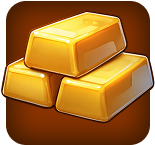
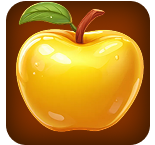
info sections

diff --git a/src/api/configApi.ts b/src/api/configApi.ts
@@ -18,127 +18,127 @@ export class ConfigAPI {
                     {
                         type: 1,
                         patterns: [
-                            { min: 5, max: 6, win: .5 },
-                            { min: 7, max: 8, win: 1 },
-                            { min: 9, max: 11, win: 2 },
-                            { min: 12, max: 14, win: 3.5 },
-                            { min: 15, max: 19, win: 5 },
-                            { min: 20, max: 25, win: 15 },
+                            { min: 5, max: 6, multiplier: .5 },
+                            { min: 7, max: 8, multiplier: 1 },
+                            { min: 9, max: 11, multiplier: 2 },
+                            { min: 12, max: 14, multiplier: 3.5 },
+                            { min: 15, max: 19, multiplier: 5 },
+                            { min: 20, max: 25, multiplier: 15 },
                         ],
                     },
                     {
                         type: 2,
                         patterns: [
-                            { min: 5, max: 6, win: .5 },
-                            { min: 7, max: 8, win: 1 },
-                            { min: 9, max: 11, win: 2 },
-                            { min: 12, max: 14, win: 3.5 },
-                            { min: 15, max: 19, win: 5 },
-                            { min: 20, max: 25, win: 15 },
+                            { min: 5, max: 6, multiplier: .5 },
+                            { min: 7, max: 8, multiplier: 1 },
+                            { min: 9, max: 11, multiplier: 2 },
+                            { min: 12, max: 14, multiplier: 3.5 },
+                            { min: 15, max: 19, multiplier: 5 },
+                            { min: 20, max: 25, multiplier: 15 },
                         ],
                     },
                     {
                         type: 3,
                         patterns: [
-                            { min: 5, max: 6, win: 1 },
-                            { min: 7, max: 8, win: 1.5 },
-                            { min: 9, max: 11, win: 3 },
-                            { min: 12, max: 14, win: 4.5 },
-                            { min: 15, max: 19, win: 6 },
-                            { min: 20, max: 25, win: 18 },
+                            { min: 5, max: 6, multiplier: 1 },
+                            { min: 7, max: 8, multiplier: 1.5 },
+                            { min: 9, max: 11, multiplier: 3 },
+                            { min: 12, max: 14, multiplier: 4.5 },
+                            { min: 15, max: 19, multiplier: 6 },
+                            { min: 20, max: 25, multiplier: 18 },
                         ],
                     },
                     {
                         type: 4,
                         patterns: [
-                            { min: 5, max: 6, win: 1 },
-                            { min: 7, max: 8, win: 1.5 },
-                            { min: 9, max: 11, win: 3 },
-                            { min: 12, max: 14, win: 4.5 },
-                            { min: 15, max: 19, win: 6 },
-                            { min: 20, max: 25, win: 18 },
+                            { min: 5, max: 6, multiplier: 1 },
+                            { min: 7, max: 8, multiplier: 1.5 },
+                            { min: 9, max: 11, multiplier: 3 },
+                            { min: 12, max: 14, multiplier: 4.5 },
+                            { min: 15, max: 19, multiplier: 6 },
+                            { min: 20, max: 25, multiplier: 18 },
                         ],
                     },
                     {
                         type: 5,
                         patterns: [
-                            { min: 5, max: 6, win: 1.5 },
-                            { min: 7, max: 8, win: 2 },
-                            { min: 9, max: 11, win: 4 },
-                            { min: 12, max: 14, win: 6 },
-                            { min: 15, max: 19, win: 9 },
-                            { min: 20, max: 25, win: 25 },
+                            { min: 5, max: 6, multiplier: 1.5 },
+                            { min: 7, max: 8, multiplier: 2 },
+                            { min: 9, max: 11, multiplier: 4 },
+                            { min: 12, max: 14, multiplier: 6 },
+                            { min: 15, max: 19, multiplier: 9 },
+                            { min: 20, max: 25, multiplier: 25 },
                         ],
                     },
                     {
                         type: 6,
                         patterns: [
-                            { min: 5, max: 6, win: 2 },
-                            { min: 7, max: 8, win: 2.5 },
-                            { min: 9, max: 11, win: 5 },
-                            { min: 12, max: 14, win: 8 },
-                            { min: 15, max: 19, win: 12 },
-                            { min: 20, max: 25, win: 30 },
+                            { min: 5, max: 6, multiplier: 2 },
+                            { min: 7, max: 8, multiplier: 2.5 },
+                            { min: 9, max: 11, multiplier: 5 },
+                            { min: 12, max: 14, multiplier: 8 },
+                            { min: 15, max: 19, multiplier: 12 },
+                            { min: 20, max: 25, multiplier: 30 },
                         ],
                     },
                     {
                         type: 7,
                         patterns: [
-                            { min: 5, max: 6, win: 2.5 },
-                            { min: 7, max: 8, win: 3 },
-                            { min: 9, max: 11, win: 6 },
-                            { min: 12, max: 14, win: 10 },
-                            { min: 15, max: 19, win: 15 },
-                            { min: 20, max: 25, win: 40 },
+                            { min: 5, max: 6, multiplier: 2.5 },
+                            { min: 7, max: 8, multiplier: 3 },
+                            { min: 9, max: 11, multiplier: 6 },
+                            { min: 12, max: 14, multiplier: 10 },
+                            { min: 15, max: 19, multiplier: 15 },
+                            { min: 20, max: 25, multiplier: 40 },
                         ],
                     },
                     {
                         type: 8,
                         patterns: [
-                            { min: 5, max: 6, win: 3 },
-                            { min: 7, max: 8, win: 4 },
-                            { min: 9, max: 11, win: 7.5 },
-                            { min: 12, max: 14, win: 12 },
-                            { min: 15, max: 19, win: 18 },
-                            { min: 20, max: 25, win: 50 },
+                            { min: 5, max: 6, multiplier: 3 },
+                            { min: 7, max: 8, multiplier: 4 },
+                            { min: 9, max: 11, multiplier: 7.5 },
+                            { min: 12, max: 14, multiplier: 12 },
+                            { min: 15, max: 19, multiplier: 18 },
+                            { min: 20, max: 25, multiplier: 50 },
                         ],
                     },
                     {
                         type: 9,
                         patterns: [
-                            { min: 5, max: 6, win: 4 },
-                            { min: 7, max: 8, win: 5 },
-                            { min: 9, max: 11, win: 9 },
-                            { min: 12, max: 14, win: 16 },
-                            { min: 15, max: 19, win: 24 },
-                            { min: 20, max: 25, win: 60 },
+                            { min: 5, max: 6, multiplier: 4 },
+                            { min: 7, max: 8, multiplier: 5 },
+                            { min: 9, max: 11, multiplier: 9 },
+                            { min: 12, max: 14, multiplier: 16 },
+                            { min: 15, max: 19, multiplier: 24 },
+                            { min: 20, max: 25, multiplier: 60 },
                         ],
                     },
                     {
                         type: 10,
                         patterns: [
-                            { min: 5, max: 6, win: 15 },
-                            { min: 7, max: 8, win: 7.50 },
-                            { min: 9, max: 11, win: 12 },
-                            { min: 12, max: 14, win: 20 },
-                            { min: 15, max: 19, win: 30 },
-                            { min: 20, max: 25, win: 100 },
+                            { min: 5, max: 6, multiplier: 15 },
+                            { min: 7, max: 8, multiplier: 7.50 },
+                            { min: 9, max: 11, multiplier: 12 },
+                            { min: 12, max: 14, multiplier: 20 },
+                            { min: 15, max: 19, multiplier: 30 },
+                            { min: 20, max: 25, multiplier: 100 },
                         ],
                     },
                     {
                         type: 11,
                         patterns: [
-                            { min: 0, max: 0, win: 0 },
-                            { min: 0, max: 0, win: 0 },
-                            { min: 0, max: 0, win: 0 },
+                            { min: 0, max: 0, multiplier: 0 },
+                            { min: 0, max: 0, multiplier: 0 },
+                            { min: 0, max: 0, multiplier: 0 },
                         ],
                     },
                     {
                         type: 12,
                         patterns: [
-                            { min: 0, max: 0, win: 0 },
-                            { min: 0, max: 0, win: 0 },
-                            { min: 0, max: 0, win: 0 },
+                            { min: 0, max: 0, multiplier: 0 },
+                            { min: 0, max: 0, multiplier: 0 },
+                            { min: 0, max: 0, multiplier: 0 },
                         ],
                     },
                 ],

diff --git a/src/slot/SlotUtility.ts b/src/slot/SlotUtility.ts
@@ -26,9 +26,7 @@ export type MultipliersValues = typeof multiplierValues[number];
 export type RoundResult = {
     type: number;
     count: number;
-    baseWin: number;
     multiplier: number;
-    finalWin: number;
     positions: Match3Position[];
 }[];
 
@@ -619,6 +617,12 @@ export function slotGetClusters(grid: Match3Grid) {
  * - If sum = 0 → totalMultiplier = 1 (neutral)
  * - No extra +1 added
  */
+/**
+ * Evaluate clusters returning:
+ * - count
+ * - final multiplier (paytable * bonusGrid wild multipliers)
+ * - positions
+ */
 export function slotEvaluateClusterWins(
     grid: Match3Grid,
     bonusGrid: number[][]
@@ -626,7 +630,12 @@ export function slotEvaluateClusterWins(
     const clusters = slotGetClusters(grid);
     const paytable = gameConfig.getPaytables();
 
-    const results: RoundResult = [];
+    const results: {
+        type: number;
+        count: number;
+        multiplier: number;   // FINAL multiplier = paytable × wild bonus
+        positions: Match3Position[];
+    }[] = [];
 
     for (const cluster of clusters) {
         const entry = paytable.find(p => p.type === cluster.type);
@@ -634,40 +643,41 @@ export function slotEvaluateClusterWins(
 
         const count = cluster.positions.length;
 
+        // ------ PAYTABLE MULTIPLIER ------
         const pattern = entry.patterns.find(
             p => count >= p.min && count <= p.max
         );
-        if (!pattern || pattern.win <= 0) continue;
+        if (!pattern) continue;
 
-        // -------- MULTIPLIER EXTRACTION (FIXED) --------
-        let sum = 0;
+        const baseMultiplier = pattern.multiplier;
+
+        // ------ BONUS WILD MULTIPLIERS ------
+        let wildBonus = 0;
 
         for (const pos of cluster.positions) {
             const t = grid[pos.row][pos.column];
             if (t === WILD) {
                 const m = bonusGrid[pos.row][pos.column] || 0;
-                if (m > 0) sum += m;
+                if (m > 0) wildBonus += m;
             }
         }
 
-        const totalMultiplier = sum > 0 ? sum : 1;
+        const bonusMultiplier = wildBonus > 0 ? wildBonus : 1;
 
-        // -------- FINAL WIN CALCULATION --------
-        const baseWin = pattern.win;
-        const finalWin = baseWin * totalMultiplier;
+        // ------ FINAL MULTIPLIER ------
+        const finalMultiplier = baseMultiplier + bonusMultiplier;
 
         results.push({
             type: cluster.type,
             count,
-            baseWin,
-            multiplier: totalMultiplier,
-            finalWin,
+            multiplier: finalMultiplier,
             positions: cluster.positions,
         });
     }
 
     return results;
 }
+
 
 /**
  * Flattens cluster win results into a single list of unique positions.

diff --git a/src/ui/PaytableSection.ts b/src/ui/PaytableSection.ts
@@ -28,7 +28,7 @@ export class PayTableSection extends Container {
         this.addChild(this.mainLayout);
 
         this.symbolsDescriptionLabel = new Label(
-            'Symbols pay regardless of their position. Your payout is based on how many identical symbols appear when the spin ends.',
+            'Symbols pay if there is a minimum of 5 connected symbols. Your payout is based on the size of connected symbol groups.',
             {
                 fill: '#ffffff',
                 fontSize: 18,
@@ -43,7 +43,7 @@ export class PayTableSection extends Container {
 
         this.paytableCardsContainer = new Container();
 
-        for (const paytable of this.paytables.slice(0, 9)) {
+        for (const paytable of this.paytables.slice(0, 10)) {
             const card = new PaytableCard({
                 image: `symbol-${paytable.type}`,
                 betAmount: this.betAmount,

diff --git a/src/slot/Match3Process.ts b/src/slot/Match3Process.ts
@@ -96,9 +96,12 @@ export class Match3Process {
                 positions: r.positions
             }));
 
+            
+
             const winningPositions = mergeClusterPositions(winningCluster);
             console.log("Winning positions: ", winningPositions);
             this.winningPositions = winningPositions;
+            console.log("Round result: ", slotEvaluateClusterWins(this.match3.board.getBackendReels(), this.match3.board.getBackendMultipliers()));
 
             // update stats here
 
@@ -135,6 +138,10 @@ export class Match3Process {
 
     public getWinningPositions(){
         return this.winningPositions;
+    }
+
+    public getRoundResult(){
+        return this.roundResult;
     }
 
     // ---------------------------------------------------------

diff --git a/src/screens/GameScreen.ts b/src/screens/GameScreen.ts
@@ -93,7 +93,7 @@ export class GameScreen extends Container {
         /** Control panel */
         this.controlPanel = new ControlPanel();
         this.addChild(this.controlPanel);
-        this.controlPanel.setCredit(100000);
+        this.controlPanel.setCredit(200000);
         this.controlPanel.setBet(2.0);
         this.controlPanel.setMessage('HOLD SPACE FOR TURBO SPIN');
 
@@ -132,6 +132,9 @@ export class GameScreen extends Container {
     public async startSpinning() {
         if (this.match3.spinning) return;
         await this.match3.spin();
+        console.log("round result");
+        console.log(this.match3.process.getRoundResult());
+        console.log("current bet: " + userSettings.getBet());
     }
 
 

diff --git a/src/ui/ScatterSection.ts b/src/ui/ScatterSection.ts
@@ -31,7 +31,7 @@ export class ScatterSection extends Container {
 
         this.wildCardContainer = new Container();
         this.wildCard = new PaytableSpecialCard({
-            image: 'symbol-10',
+            image: 'symbol-11',
             description: 'This is SCATTER symbol. \nSCATTER symbol is present on all reels',
         });
         this.wildCardContainer.addChild(this.wildCard);
